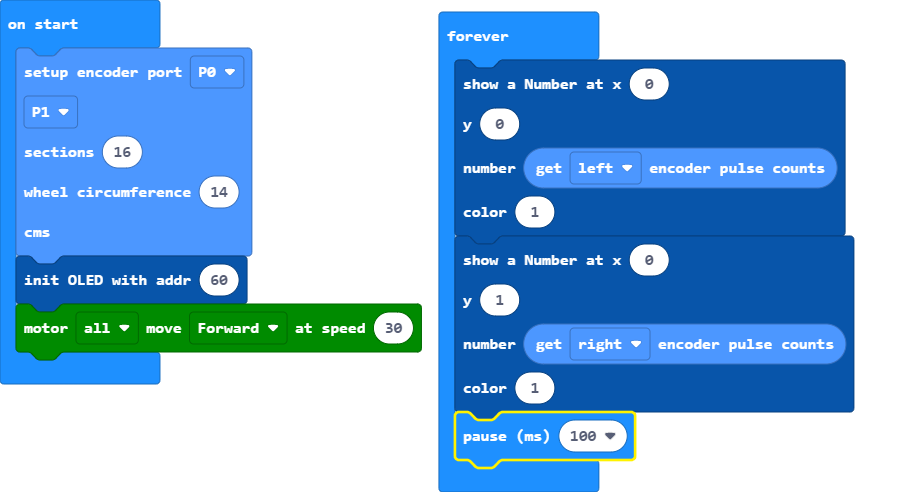
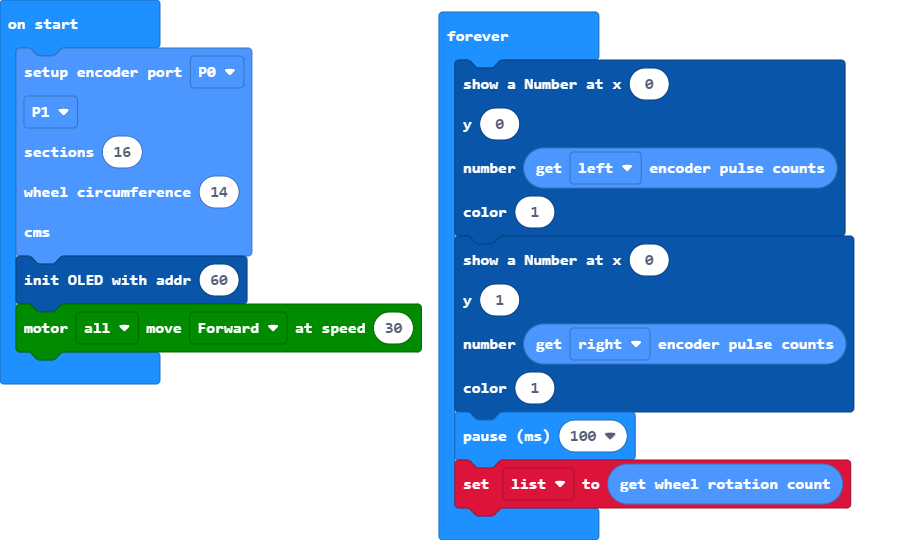
Added list Array which takes the rotation count of the wheel.

diff --git a/main.ts b/main.ts
@@ -1,3 +1,4 @@
+let list: number[] = []
 OrientBit.enableEncoder(
 DigitalPin.P0,
 DigitalPin.P1,
@@ -20,4 +21,5 @@ basic.forever(function () {
     1
     )
     basic.pause(100)
+    list = OrientBit.getRotationCount()
 })
